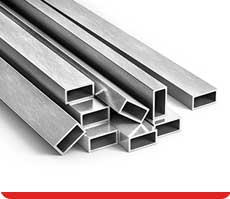
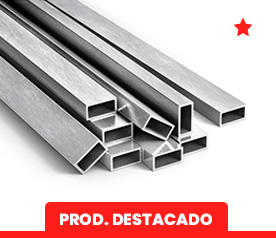
mie21

diff --git a/index.html b/index.html
@@ -187,9 +187,9 @@
                 </div>
                 <div class="col-6 col-md-3 px-1 mxs">
                     <div class="card">
-                        <img src="media/destacados/perfiles.jpg" class="card-img-top" alt="...">
+                        <img src="media/destacados/hierros.jpg" class="card-img-top" alt="...">
                         <div class="card-body py-2">
-                            <h4>PERFILES DE <br> ACERO</h4>
+                            <h4>HIERROS <br> TORSIONADOS</h4>
                         </div>
                     </div>                
                 </div>
@@ -203,6 +203,7 @@
                     <li data-target="#carouselExampleCaptions" data-slide-to="0" class="active"></li>
                     <li data-target="#carouselExampleCaptions" data-slide-to="1"></li>
                     <li data-target="#carouselExampleCaptions" data-slide-to="2"></li>
+                    <li data-target="#carouselExampleCaptions" data-slide-to="3"></li>
                 </ol>
                 <div class="carousel-inner">
                     <div class="carousel-item active">
@@ -215,6 +216,10 @@
                     </div>
                     <div class="carousel-item">
                         <img src="media/slideMarcas/durlock.png" class="d-block w-100" alt="...">
+                        
+                    </div>
+                    <div class="carousel-item">
+                        <img src="media/slideMarcas/isolant.png" class="d-block w-100" alt="...">
                         
                     </div>
                 </div>
